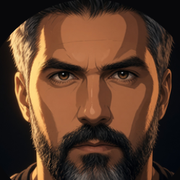
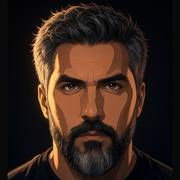
Add files via upload

diff --git a/index.html b/index.html
@@ -6,9 +6,10 @@
 <title>The Simplifier · The Record</title>
 <!-- 21 Oct 2026, the fifth upload of the day: the site icon, his own avatar, for the browser tab and beside the record in search results.
      favicon.ico at the root serves every page; these tags sit on the home page, where Google reads its icon. -->
-<link rel="icon" href="/favicon.ico" sizes="16x16 32x32 48x48">
-<link rel="icon" type="image/png" sizes="192x192" href="/icon-192.png">
-<link rel="apple-touch-icon" href="/apple-touch-icon.png">
+<!-- 21 Oct 2026, the sixth upload: the icon cut from his original avatar to the shape of his head, hair to beard, on a clear ground; the home-screen icon a square of the same file; ?v=2 so browsers drop the old ones. -->
+<link rel="icon" href="/favicon.ico?v=2" sizes="16x16 32x32 48x48">
+<link rel="icon" type="image/png" sizes="192x192" href="/icon-192.png?v=2">
+<link rel="apple-touch-icon" href="/apple-touch-icon.png?v=2">
 <!-- META DESCRIPTION, figure-free since 6 September 2026. The line above it
      used to carry the tally (22 resolved, 18 correct, 4 wrong) and was found
      two grades stale against the page's own count, the exact drift the
@@ -1412,7 +1413,7 @@
    posted call before it goes live. This page is the whole brand in one place.
    ========================================================================= */
 
-const LAST_UPDATED  = "2026-10-21";   /* set by hand, with the commit. Kept at "2026-10-21" for the fifth upload of 21 October: the site icon, his own avatar, in the browser tab and beside the record in search results; no row, grade, figure or date touched. Kept at "2026-10-21" for the fourth upload of 21 October: the record moves to its own domain, thesimplifier7.com, every address on the record, its pages and its cards with it; the Internet Archive's links to the copies kept at the old address stay as they are; no row, grade, figure or date touched. Kept at "2026-10-21" for the third upload of 21 October: Gold's Sessions joins the free tools, in This week, the Join door and tools.html; no row, grade, figure or date touched. Kept at "2026-10-21" for the second upload of 21 October: the free tools on one page (tools.html), every week on its own page (weeks.html and week-*.html), the sitemap, and the guest ledger open, its invitation a post to @TheSimplifier7 on X; no row, grade, figure or date touched. "2026-10-21" for the upload of 21 October, the free tools on TradingView, a door in Join, under This week, in the band and at the foot; no row, grade, figure or date touched. WAS "2026-10-19": "2026-10-19" for the Monday map upload of 19 October, the first lines alone (note 51). Kept at "2026-10-19" for the grade upload of 19 October, the 16 October close graded, which carries note 51, the line alone. WAS "2026-10-12": "2026-10-12" for the Monday map upload of 12 October, rows named under the call grammar (note 34), which carries note 50, The Fan's price. WAS "2026-10-10": Kept at "2026-10-10" for the third upload of 10 October, which carries note 49, the archive and the read's own line. WAS "2026-10-10" for the second upload of 10 October, which carries note 48, the cards in navy, and the hash of the first. WAS "2026-10-10" for the upload of 10 October, which carries note 46, the 9 October close graded, and note 47, the record as a table. WAS "2026-10-07": "2026-10-07" for the crowd upload of 7 October, which carries note 45, the third crowd row. WAS "2026-10-05": "2026-10-05" for the Monday map upload of 5 October, rows named under the call grammar (note 34). WAS "2026-10-02": "2026-10-02" for the grade upload of 2 October, which carries note 44, the first rows graded under the call grammar. WAS "2026-09-28": "2026-09-28" for the Monday map upload of 28 September, the first rows named under the call grammar (note 34). WAS "2026-09-25": Kept at "2026-09-25" for the grade upload of the same night, which carries note 42 (the 25 September close). WAS "2026-09-24" until the upload of 25 September, which carries notes 38 to 40 (written 24 September) and note 41 (written early on 25 September); "2026-09-23" until the 24 September uploads, which carry notes 33 to 35 (17:34 CEST), note 36 (the same evening) and note 37 (the same night); "2026-09-20" until the 23 September upload, which carries note 30 (written 22 September, not uploaded that day) and note 31; "2026-09-13" until the 20 September upload */
+const LAST_UPDATED  = "2026-10-21";   /* set by hand, with the commit. Kept at "2026-10-21" for the sixth upload of 21 October: the site icon cut from his original avatar to the shape of his head; no row, grade, figure or date touched. Kept at "2026-10-21" for the fifth upload of 21 October: the site icon, his own avatar, in the browser tab and beside the record in search results; no row, grade, figure or date touched. Kept at "2026-10-21" for the fourth upload of 21 October: the record moves to its own domain, thesimplifier7.com, every address on the record, its pages and its cards with it; the Internet Archive's links to the copies kept at the old address stay as they are; no row, grade, figure or date touched. Kept at "2026-10-21" for the third upload of 21 October: Gold's Sessions joins the free tools, in This week, the Join door and tools.html; no row, grade, figure or date touched. Kept at "2026-10-21" for the second upload of 21 October: the free tools on one page (tools.html), every week on its own page (weeks.html and week-*.html), the sitemap, and the guest ledger open, its invitation a post to @TheSimplifier7 on X; no row, grade, figure or date touched. "2026-10-21" for the upload of 21 October, the free tools on TradingView, a door in Join, under This week, in the band and at the foot; no row, grade, figure or date touched. WAS "2026-10-19": "2026-10-19" for the Monday map upload of 19 October, the first lines alone (note 51). Kept at "2026-10-19" for the grade upload of 19 October, the 16 October close graded, which carries note 51, the line alone. WAS "2026-10-12": "2026-10-12" for the Monday map upload of 12 October, rows named under the call grammar (note 34), which carries note 50, The Fan's price. WAS "2026-10-10": Kept at "2026-10-10" for the third upload of 10 October, which carries note 49, the archive and the read's own line. WAS "2026-10-10" for the second upload of 10 October, which carries note 48, the cards in navy, and the hash of the first. WAS "2026-10-10" for the upload of 10 October, which carries note 46, the 9 October close graded, and note 47, the record as a table. WAS "2026-10-07": "2026-10-07" for the crowd upload of 7 October, which carries note 45, the third crowd row. WAS "2026-10-05": "2026-10-05" for the Monday map upload of 5 October, rows named under the call grammar (note 34). WAS "2026-10-02": "2026-10-02" for the grade upload of 2 October, which carries note 44, the first rows graded under the call grammar. WAS "2026-09-28": "2026-09-28" for the Monday map upload of 28 September, the first rows named under the call grammar (note 34). WAS "2026-09-25": Kept at "2026-09-25" for the grade upload of the same night, which carries note 42 (the 25 September close). WAS "2026-09-24" until the upload of 25 September, which carries notes 38 to 40 (written 24 September) and note 41 (written early on 25 September); "2026-09-23" until the 24 September uploads, which carry notes 33 to 35 (17:34 CEST), note 36 (the same evening) and note 37 (the same night); "2026-09-20" until the 23 September upload, which carries note 30 (written 22 September, not uploaded that day) and note 31; "2026-09-13" until the 20 September upload */
 
 /* =========================================================================
    PROVENANCE  ·  which commit wrote each grade, added 4 Sep 2026
